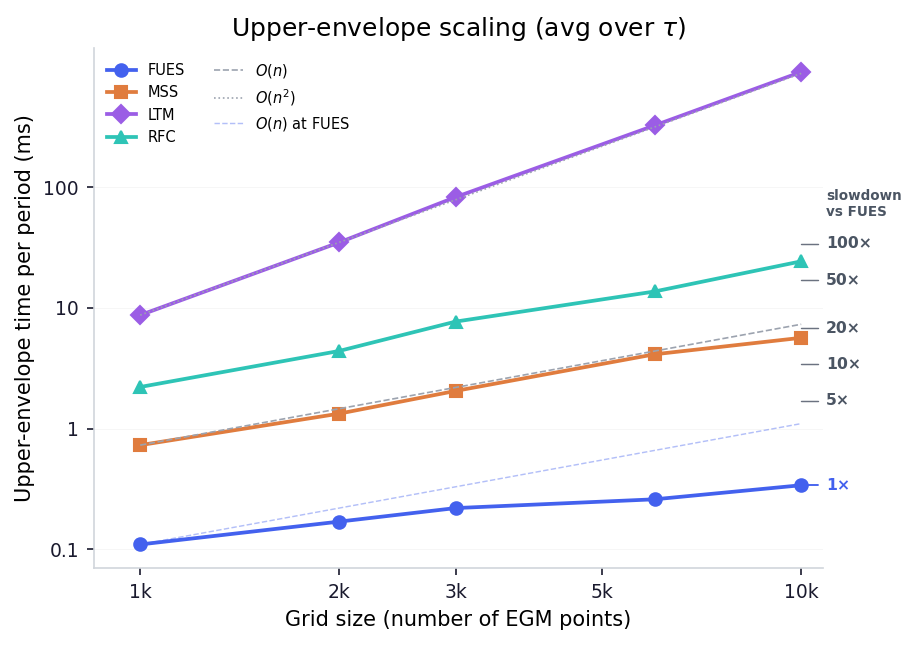
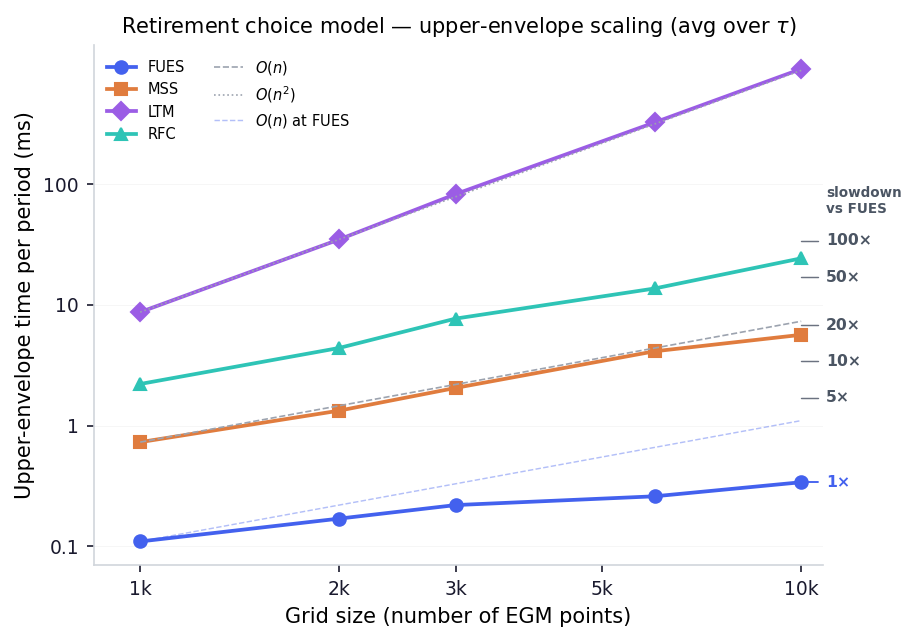
Add 'Retirement choice model' to plot title, smaller font
Made-with: Cursor

diff --git a/examples/retirement/notebooks/nb_pbs.py b/examples/retirement/notebooks/nb_pbs.py
@@ -167,7 +167,8 @@ def plot_pbs_scaling(path, ax=None):
 
     ax.set_xlabel('Grid size (number of EGM points)')
     ax.set_ylabel('Upper-envelope time per period (ms)')
-    ax.set_title('Upper-envelope scaling (avg over $\\tau$)')
+    ax.set_title('Retirement choice model — upper-envelope scaling (avg over $\\tau$)',
+                 fontsize=10)
     _style_nb_ax(ax)
     ax.legend(fontsize=7, framealpha=0.7, edgecolor='none', ncol=2,
               loc='upper left')
